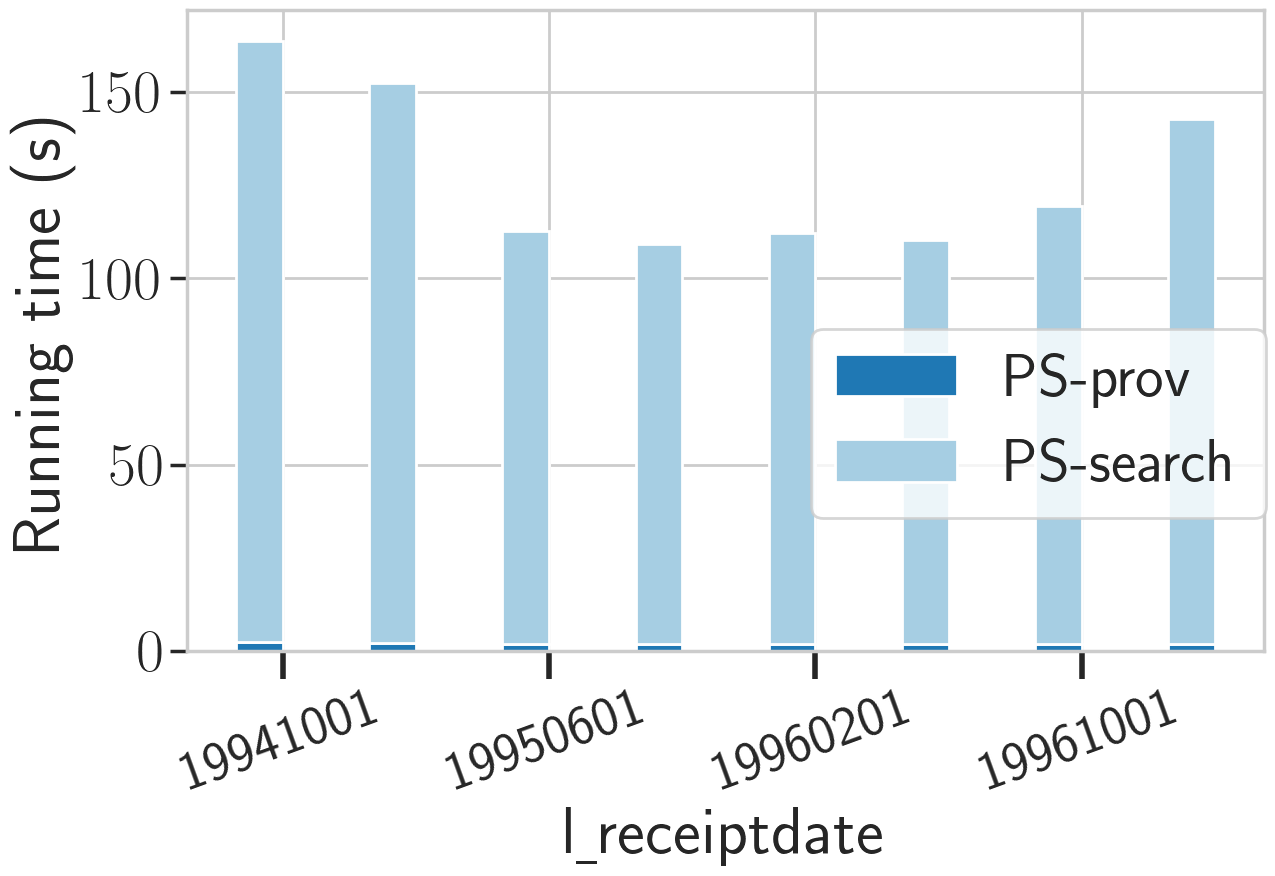
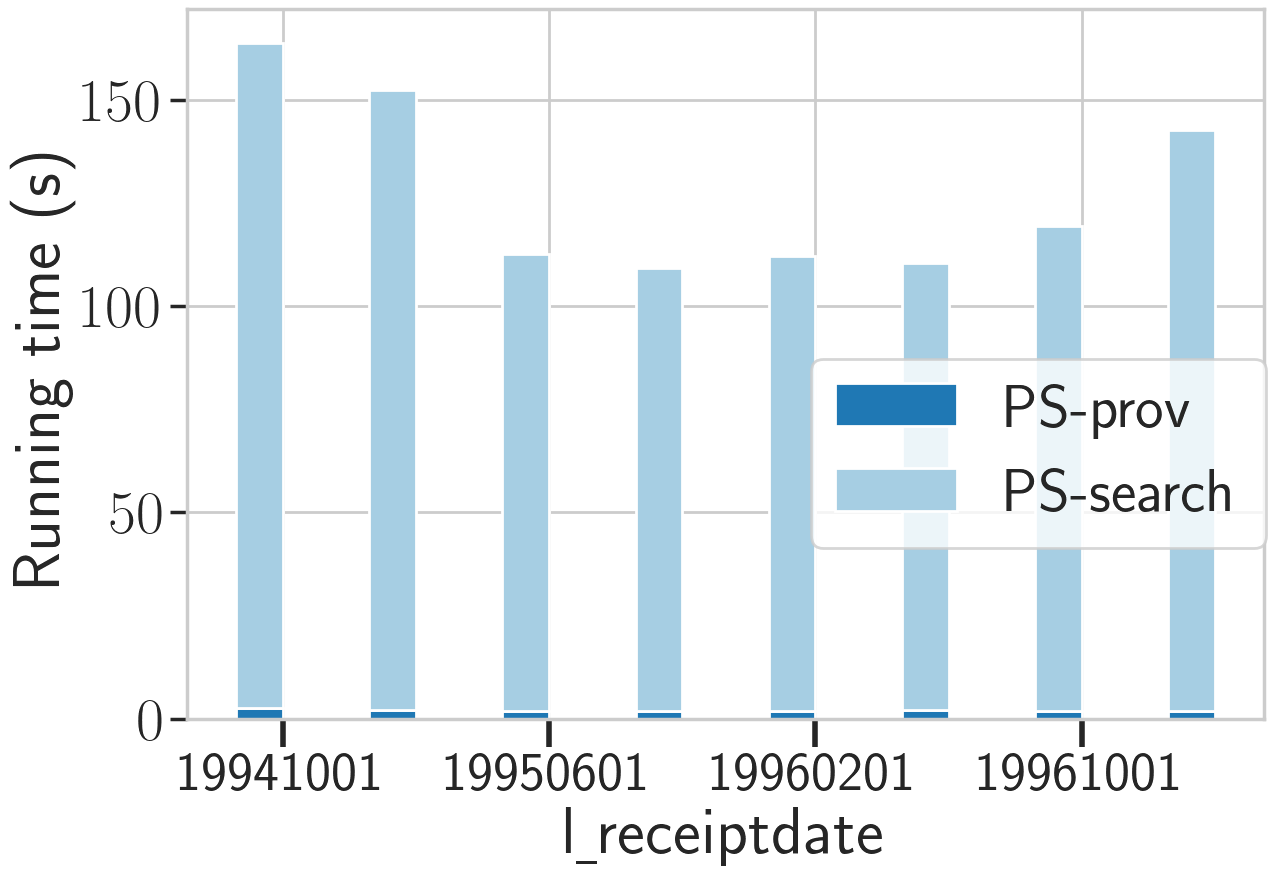
fix figures

diff --git a/Experiment/TPCH/100M/query_selectivity/q12_contract/fig.py b/Experiment/TPCH/100M/query_selectivity/q12_contract/fig.py
@@ -82,7 +82,7 @@ def run(query, size, constraint):
     #         color=color[3], label=label[3])
 
 
-    plt.xticks(np.arange(0, 8, 2) + bar_width/2, x_list, rotation=20, fontsize=40)
+    plt.xticks(np.arange(0, 8, 2) + bar_width/2, x_list, rotation=0, fontsize=40)
 
     plt.xlabel(r'l\underline{ }receiptdate')
     plt.ylabel('Running time (s)')

diff --git a/Experiment/TPCH/100M/query_selectivity/q12_refine/fig.py b/Experiment/TPCH/100M/query_selectivity/q12_refine/fig.py
@@ -82,7 +82,7 @@ def run(query, size, constraint):
     #         color=color[3], label=label[3])
 
 
-    plt.xticks(np.arange(0, 8, 2) + bar_width/2, x_list, rotation=20, fontsize=40)
+    plt.xticks(np.arange(0, 8, 2) + bar_width/2, x_list, rotation=0, fontsize=40)
 
     plt.xlabel(r'l\underline{ }receiptdate')
     plt.ylabel('Running time (s)')

diff --git a/Experiment/TPCH/100M/query_selectivity/q12_relax/fig.py b/Experiment/TPCH/100M/query_selectivity/q12_relax/fig.py
@@ -82,7 +82,7 @@ def run(query, size, constraint):
     #         color=color[3], label=label[3])
 
 
-    plt.xticks(np.arange(0, 8, 2) + bar_width/2, x_list, rotation=20, fontsize=40)
+    plt.xticks(np.arange(0, 8, 2) + bar_width/2, x_list, rotation=0, fontsize=40)
 
     plt.xlabel(r'l\underline{ }receiptdate')
     plt.ylabel('Running time (s)')
